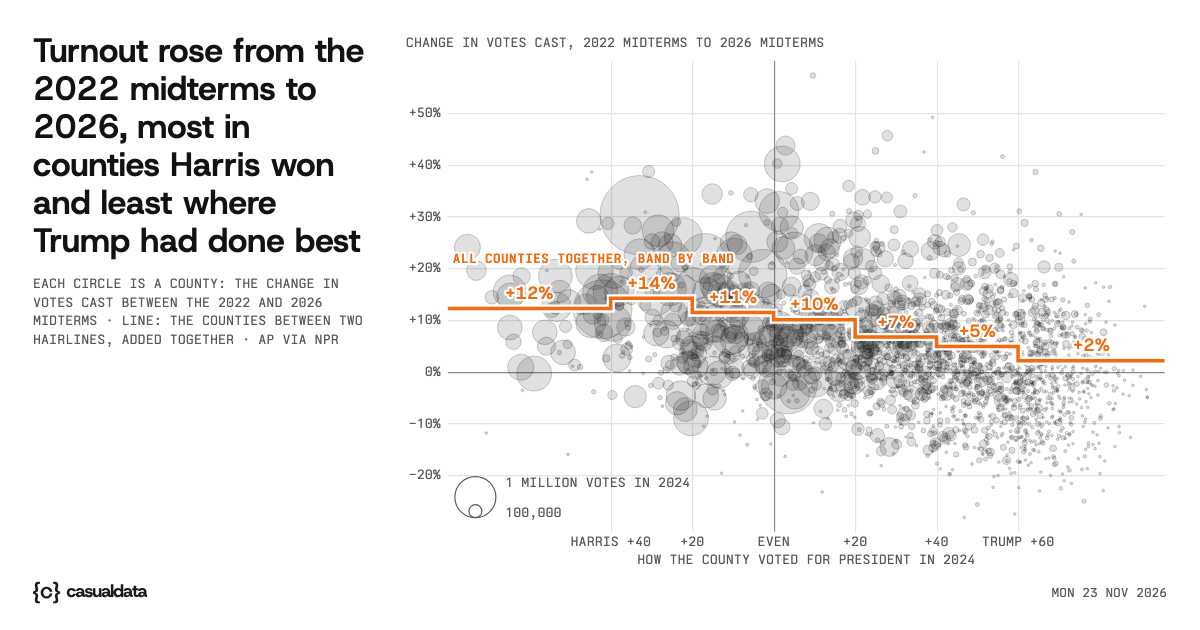
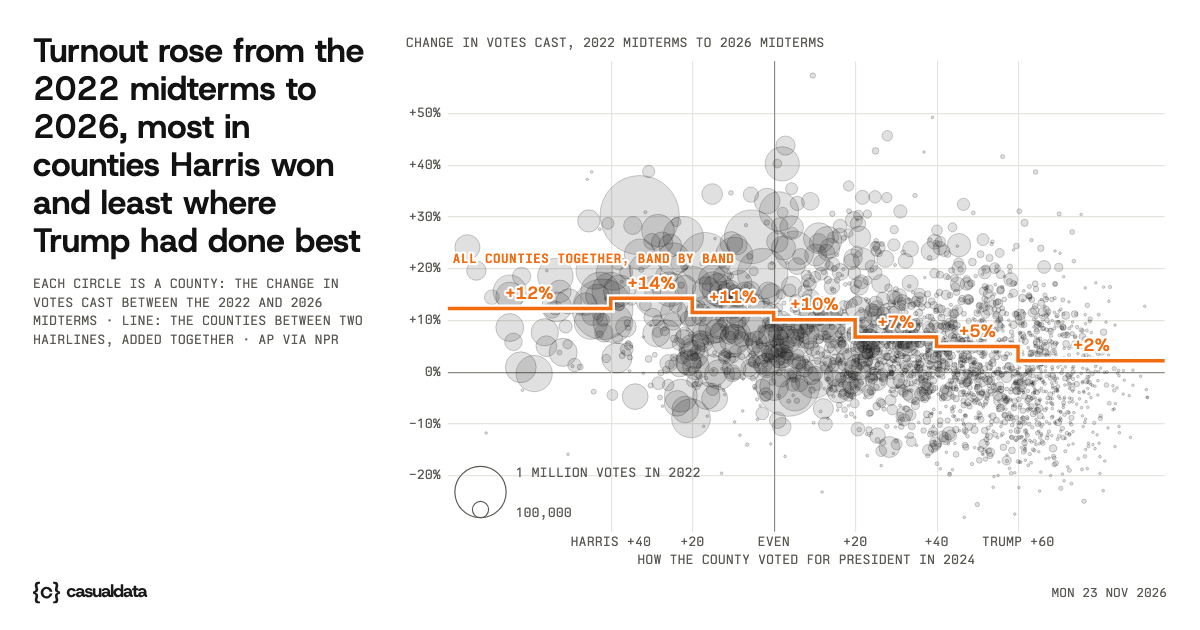
23 Nov: size the circles by each county's 2022 midterm vote, not its 2024 vote
The chart compares the 2022 and 2026 midterms, so sizing by 2024 confused readers.
The legend and dek now say the size is the 2022 vote; images and SEO stamps redone.

diff --git a/2026-11-23/index.html b/2026-11-23/index.html
@@ -13,7 +13,7 @@
   <meta property="og:image" content="https://casualdata.com/2026-11-23/card.png">
   <meta property="og:image:width" content="1200">
   <meta property="og:image:height" content="630">
-  <meta property="og:image:alt" content="A scatter of 2,361 circles, one per county, sized by its 2024 vote. Across: the county’s 2024 result. Up: the change in votes cast between the 2022 and 2026 midterms. An orange stepped line runs from plus 12%, plus 14% and plus 11% in the three bands of counties Harris won down to plus 2% in counties Trump won by 60 points or more.">
+  <meta property="og:image:alt" content="A scatter of 2,361 circles, one per county, sized by its 2022 midterm vote. Across: the county’s 2024 result. Up: the change in votes cast between the 2022 and 2026 midterms. An orange stepped line runs from plus 12%, plus 14% and plus 11% in the three bands of counties Harris won down to plus 2% in counties Trump won by 60 points or more.">
   <meta name="twitter:card" content="summary_large_image">
   <link rel="icon" href="/kit/favicon.svg?v=a2177b6d" type="image/svg+xml">
   <link rel="preload" href="/fonts/host-grotesk-latin.woff2" as="font" type="font/woff2" crossorigin>
@@ -30,9 +30,9 @@
   <meta name="twitter:title" content="Turnout rose from the 2022 midterms to 2026, most in counties Harris won and least where Trump had done best">
   <meta name="twitter:description" content="Each of 2,361 counties in 36 states is a circle: how it voted for president in 2024, and the change in the votes it cast between the 2022 and 2026 midterms. Counties Harris won cast 13% more votes than in 2022; counties Trump won by 60 points or more cast 2% more.">
   <meta name="twitter:image" content="https://casualdata.com/2026-11-23/card.png">
-  <meta name="twitter:image:alt" content="A scatter of 2,361 circles, one per county, sized by its 2024 vote. Across: the county’s 2024 result. Up: the change in votes cast between the 2022 and 2026 midterms. An orange stepped line runs from plus 12%, plus 14% and plus 11% in the three bands of counties Harris won down to plus 2% in counties Trump won by 60 points or more.">
+  <meta name="twitter:image:alt" content="A scatter of 2,361 circles, one per county, sized by its 2022 midterm vote. Across: the county’s 2024 result. Up: the change in votes cast between the 2022 and 2026 midterms. An orange stepped line runs from plus 12%, plus 14% and plus 11% in the three bands of counties Harris won down to plus 2% in counties Trump won by 60 points or more.">
   <script type="application/ld+json">
-{"@context":"https://schema.org","@graph":[{"@type":"Organization","@id":"https://casualdata.com/#org","name":"casualdata","alternateName":"{casualdata}","url":"https://casualdata.com/","logo":{"@type":"ImageObject","url":"https://casualdata.com/img/og/logo.png","width":512,"height":512},"foundingDate":"2005","description":"casualdata publishes one new interactive data visualization every day: a chart, map or picture of the day's news and data, each on its own dated page with its sources. It also keeps casualdata's data visualization art projects from 2007 to 2011.","founder":{"@type":"Person","@id":"https://mahiryavuz.com/#person","name":"Mahir Yavuz","url":"https://mahiryavuz.com/"},"knowsAbout":["data visualization","information design","data journalism","generative art"]},{"@type":"WebSite","@id":"https://casualdata.com/#website","url":"https://casualdata.com/","name":"casualdata","description":"casualdata publishes one new interactive data visualization every day: a chart, map or picture of the day's news and data, each on its own dated page with its sources. It also keeps casualdata's data visualization art projects from 2007 to 2011.","inLanguage":"en","publisher":{"@id":"https://casualdata.com/#org"}},{"@type":"Article","@id":"https://casualdata.com/2026-11-23/#article","url":"https://casualdata.com/2026-11-23/","mainEntityOfPage":"https://casualdata.com/2026-11-23/","headline":"Turnout rose from the 2022 midterms to 2026, most in counties Harris won and least where Trump had done best","alternativeHeadline":"Each circle is a county: how it voted for president in 2024, and the change in votes cast from the 2022 midterms to 2026. The line adds counties up.","description":"Each of 2,361 counties in 36 states is a circle: how it voted for president in 2024, and the change in the votes it cast between the 2022 and 2026 midterms. Counties Harris won cast 13% more votes than in 2022; counties Trump won by 60 points or more cast 2% more.","datePublished":"2026-11-23T07:00:00Z","dateModified":"2026-11-23T07:00:00Z","image":{"@type":"ImageObject","url":"https://casualdata.com/2026-11-23/card.png","width":1200,"height":630,"caption":"A scatter of 2,361 circles, one per county, sized by its 2024 vote. Across: the county’s 2024 result. Up: the change in votes cast between the 2022 and 2026 midterms. An orange stepped line runs from plus 12%, plus 14% and plus 11% in the three bands of counties Harris won down to plus 2% in counties Trump won by 60 points or more."},"author":{"@id":"https://casualdata.com/#org"},"publisher":{"@id":"https://casualdata.com/#org"},"isPartOf":{"@id":"https://casualdata.com/#website"},"inLanguage":"en","genre":"data visualization","isAccessibleForFree":true,"keywords":["data visualization","interactive chart","casualdata daily"],"about":{"@id":"https://casualdata.com/2026-11-23/#data"}},{"@type":"Dataset","@id":"https://casualdata.com/2026-11-23/#data","url":"https://casualdata.com/2026-11-23/","name":"Turnout rose from the 2022 midterms to 2026, most in counties Harris won and least where Trump had done best (data, 23 November 2026)","description":"The data behind the casualdata visualization of 23 November 2026: Each of 2,361 counties in 36 states is a circle: how it voted for president in 2024, and the change in the votes it cast between the 2022 and 2026 midterms. Counties Harris won cast 13% more votes than in 2022; counties Trump won by 60 points or more cast 2% more. Source: AP county results via NPR (2022, and 2026 as counted to 22 Nov 2026); 2024 presidential results by county compiled by Tony McGovern.","creator":{"@id":"https://casualdata.com/#org"},"datePublished":"2026-11-23","isAccessibleForFree":true,"distribution":{"@type":"DataDownload","encodingFormat":"text/javascript","contentUrl":"https://casualdata.com/2026-11-23/data.js"},"isBasedOn":["https://apps.npr.org/2026-election-results/data/counties/","https://apps.npr.org/2026-election-results/data/states/","https://apps.npr.org/election-results-live-2022/data/counties/","https://raw.githubusercontent.com/tonmcg/US_County_Level_Election_Results_08-24/master/2024_US_County_Level_Presidential_Results.csv"],"citation":"AP county results via NPR (2022, and 2026 as counted to 22 Nov 2026); 2024 presidential results by county compiled by Tony McGovern"},{"@type":"BreadcrumbList","itemListElement":[{"@type":"ListItem","position":1,"name":"casualdata","item":"https://casualdata.com/"},{"@type":"ListItem","position":2,"name":"23 November 2026: Turnout rose from the 2022 midterms to 2026, most in counties Harris won and least where Trump had done best","item":"https://casualdata.com/2026-11-23/"}]}]}
+{"@context":"https://schema.org","@graph":[{"@type":"Organization","@id":"https://casualdata.com/#org","name":"casualdata","alternateName":"{casualdata}","url":"https://casualdata.com/","logo":{"@type":"ImageObject","url":"https://casualdata.com/img/og/logo.png","width":512,"height":512},"foundingDate":"2005","description":"casualdata publishes one new interactive data visualization every day: a chart, map or picture of the day's news and data, each on its own dated page with its sources. It also keeps casualdata's data visualization art projects from 2007 to 2011.","founder":{"@type":"Person","@id":"https://mahiryavuz.com/#person","name":"Mahir Yavuz","url":"https://mahiryavuz.com/"},"knowsAbout":["data visualization","information design","data journalism","generative art"]},{"@type":"WebSite","@id":"https://casualdata.com/#website","url":"https://casualdata.com/","name":"casualdata","description":"casualdata publishes one new interactive data visualization every day: a chart, map or picture of the day's news and data, each on its own dated page with its sources. It also keeps casualdata's data visualization art projects from 2007 to 2011.","inLanguage":"en","publisher":{"@id":"https://casualdata.com/#org"}},{"@type":"Article","@id":"https://casualdata.com/2026-11-23/#article","url":"https://casualdata.com/2026-11-23/","mainEntityOfPage":"https://casualdata.com/2026-11-23/","headline":"Turnout rose from the 2022 midterms to 2026, most in counties Harris won and least where Trump had done best","alternativeHeadline":"Each circle is a county, sized by its 2022 vote: how it voted for president in 2024, and the change in votes cast from the 2022 midterms to 2026. The line adds counties up.","description":"Each of 2,361 counties in 36 states is a circle: how it voted for president in 2024, and the change in the votes it cast between the 2022 and 2026 midterms. Counties Harris won cast 13% more votes than in 2022; counties Trump won by 60 points or more cast 2% more.","datePublished":"2026-11-23T07:00:00Z","dateModified":"2026-11-23T07:00:00Z","image":{"@type":"ImageObject","url":"https://casualdata.com/2026-11-23/card.png","width":1200,"height":630,"caption":"A scatter of 2,361 circles, one per county, sized by its 2022 midterm vote. Across: the county’s 2024 result. Up: the change in votes cast between the 2022 and 2026 midterms. An orange stepped line runs from plus 12%, plus 14% and plus 11% in the three bands of counties Harris won down to plus 2% in counties Trump won by 60 points or more."},"author":{"@id":"https://casualdata.com/#org"},"publisher":{"@id":"https://casualdata.com/#org"},"isPartOf":{"@id":"https://casualdata.com/#website"},"inLanguage":"en","genre":"data visualization","isAccessibleForFree":true,"keywords":["data visualization","interactive chart","casualdata daily"],"about":{"@id":"https://casualdata.com/2026-11-23/#data"}},{"@type":"Dataset","@id":"https://casualdata.com/2026-11-23/#data","url":"https://casualdata.com/2026-11-23/","name":"Turnout rose from the 2022 midterms to 2026, most in counties Harris won and least where Trump had done best (data, 23 November 2026)","description":"The data behind the casualdata visualization of 23 November 2026: Each of 2,361 counties in 36 states is a circle: how it voted for president in 2024, and the change in the votes it cast between the 2022 and 2026 midterms. Counties Harris won cast 13% more votes than in 2022; counties Trump won by 60 points or more cast 2% more. Source: AP county results via NPR (2022, and 2026 as counted to 22 Nov 2026); 2024 presidential results by county compiled by Tony McGovern.","creator":{"@id":"https://casualdata.com/#org"},"datePublished":"2026-11-23","isAccessibleForFree":true,"distribution":{"@type":"DataDownload","encodingFormat":"text/javascript","contentUrl":"https://casualdata.com/2026-11-23/data.js"},"isBasedOn":["https://apps.npr.org/2026-election-results/data/counties/","https://apps.npr.org/2026-election-results/data/states/","https://apps.npr.org/election-results-live-2022/data/counties/","https://raw.githubusercontent.com/tonmcg/US_County_Level_Election_Results_08-24/master/2024_US_County_Level_Presidential_Results.csv"],"citation":"AP county results via NPR (2022, and 2026 as counted to 22 Nov 2026); 2024 presidential results by county compiled by Tony McGovern"},{"@type":"BreadcrumbList","itemListElement":[{"@type":"ListItem","position":1,"name":"casualdata","item":"https://casualdata.com/"},{"@type":"ListItem","position":2,"name":"23 November 2026: Turnout rose from the 2022 midterms to 2026, most in counties Harris won and least where Trump had done best","item":"https://casualdata.com/2026-11-23/"}]}]}
 </script>
   <link rel="prev" href="https://casualdata.com/2026-11-22/">
   <!-- /seo -->
@@ -51,7 +51,7 @@
 <section class="cd-head">
   <div class="cd-text">
   <h1 class="cd-title">Turnout rose from the 2022 midterms to 2026, most in counties Harris won and least where Trump had done best</h1>
-  <p class="cd-dek">Each circle is a county: how it voted for president in 2024, and the change in votes cast from the 2022 midterms to 2026. The line adds counties up.</p>
+  <p class="cd-dek">Each circle is a county, sized by its 2022 vote: how it voted for president in 2024, and the change in votes cast from the 2022 midterms to 2026. The line adds counties up.</p>
   </div>
   <p class="visually-hidden" id="cd-live" aria-live="polite"></p>
 </section>
@@ -67,6 +67,6 @@
 <script src="/kit/days.js"></script>
 <script src="/kit/cd.js?v=b7baf587"></script>
 <script src="data.js?v=065a2e2f"></script>
-<script src="viz.js?v=8d47e509"></script>
+<script src="viz.js?v=de35e604"></script>
 </body>
 </html>

diff --git a/2026-11-23/viz.js b/2026-11-23/viz.js
@@ -1,7 +1,7 @@
 // 2026-11-23 — one circle for each of 2,361 counties in the 36 states that had a Senate or governor's
 // race in both 2022 and 2026: across, how the county voted for president in 2024 (Harris to the left,
 // Trump to the right); up, the change in the votes it cast from the 2022 midterms to the 2026
-// midterms; its size, the votes it cast for president in 2024. Hairlines cut the plot into seven
+// midterms; its size, the votes it cast in the 2022 midterms. Hairlines cut the plot into seven
 // bands by the 2024 margin, and a stepped line gives each band's counties added together. That line
 // is the one accent idea: orange on the white page, the kit's green on the black one (a chart about
 // parties never uses red; the owner chose orange for this day, where green sank into the grey
@@ -9,10 +9,10 @@
 // the states are listed under the title and can be picked there.
 (function () {
 	const C = CD.colors, D = window.COUNTIES;
-	// b0 = the votes cast in the 2022 midterms, t = in 2026; v0 = the 2024 presidential votes, the circle's size
+	// b0 = the votes cast in the 2022 midterms, the circle's size; t = in 2026; v0 = the 2024 presidential votes
 	const rows = D.rows.map(r => ({ fips: r[0], name: r[1], st: r[2], m: r[3], v0: r[4], b0: r[5], t: r[6], open: !!r[7], p: r[6] / r[5] * 100 }));
-	const N = rows.length, VMAX = Math.max(...rows.map(r => r.v0));
-	const big = rows.map((_, i) => i).sort((a, b) => rows[b].v0 - rows[a].v0);       // drawn largest first, so small circles stay on top
+	const N = rows.length, VMAX = Math.max(...rows.map(r => r.b0));
+	const big = rows.map((_, i) => i).sort((a, b) => rows[b].b0 - rows[a].b0);       // drawn largest first, so small circles stay on top
 	const firsts = []; rows.forEach((r, i) => { if (!i || rows[i - 1].st !== r.st) firsts.push(i); });       // each state's largest county; the rows come by state, A to Z, largest first
 	const ranked = Object.keys(D.states).sort((a, b) => D.states[b] - D.states[a]);
 	const X0 = -80, X1 = 96, EDGES = [-40, -20, 0, 20, 40, 60];
@@ -133,7 +133,7 @@
 		const pos = new Float32Array(N * 3);
 		ctx.fillStyle = C.ink; ctx.strokeStyle = C.ink; ctx.lineWidth = 0.6 * s;
 		for (const i of big) {
-			const r = rows[i], cx = px(r.m), cy = py(r.p), rr = rad(r.v0) * arrived((r.m - X0) / (X1 - X0));
+			const r = rows[i], cx = px(r.m), cy = py(r.p), rr = rad(r.b0) * arrived((r.m - X0) / (X1 - X0));
 			pos[i * 3] = cx; pos[i * 3 + 1] = cy; pos[i * 3 + 2] = rr;
 			if (rr <= 0) continue;
 			const mine = cur && r.st === cur;
@@ -173,7 +173,7 @@
 		ctx.strokeStyle = C.ink2; ctx.lineWidth = px1; ctx.globalAlpha = la;
 		for (const kr of [k1, k2]) { ctx.beginPath(); ctx.arc(kx, kb - kr, kr, 0, 6.2832); ctx.stroke(); }
 		ctx.font = mono; ctx.fillStyle = C.ink2;
-		ctx.fillText(PW >= 300 * s ? "1 MILLION VOTES IN 2024" : "1 MILLION VOTES", kx + k1 + 8 * s, kb - 1 * s - Math.max(15 * s, k1 * 2 - 10 * s));
+		ctx.fillText(PW >= 300 * s ? "1 MILLION VOTES IN 2022" : "1 MILLION VOTES", kx + k1 + 8 * s, kb - 1 * s - Math.max(15 * s, k1 * 2 - 10 * s));
 		ctx.fillText("100,000", kx + k1 + 8 * s, kb - 1 * s);
 		ctx.globalAlpha = 1;
 

diff --git a/index.html b/index.html
@@ -48,7 +48,7 @@
       <picture><source media="(min-width: 601px)" srcset="/2026-11-23/lead.webp" width="1440" height="960"><img srcset="/2026-11-23/thumb.webp 720w, /2026-11-23/thumb-1200.webp 1200w" sizes="100vw" src="/2026-11-23/thumb.webp" width="1200" height="800" alt="" loading="lazy"></picture>
       <span class="cd-meta"><i class="dot" aria-hidden="true"></i>Latest · <time datetime="2026-11-23">Mon 23 Nov 2026</time></span>
       <span class="t">Turnout rose from the 2022 midterms to 2026, most in counties Harris won and least where Trump had done best</span>
-      <span class="dek">Each circle is a county: how it voted for president in 2024, and the change in votes cast from the 2022 midterms to 2026. The line adds counties up.</span>
+      <span class="dek">Each circle is a county, sized by its 2022 vote: how it voted for president in 2024, and the change in votes cast from the 2022 midterms to 2026. The line adds counties up.</span>
     </a></li>
     <li class="tile"><a href="/2026-11-22/">
       <picture><img srcset="/2026-11-22/thumb.webp 720w, /2026-11-22/thumb-1200.webp 1200w" sizes="(max-width: 600px) 100vw, (max-width: 960px) 50vw, (max-width: 1599px) 33vw, 25vw" src="/2026-11-22/thumb.webp" width="1200" height="800" alt="" loading="lazy"></picture>
@@ -158,7 +158,7 @@
   <p class="cd-meta">Made by <a href="https://mahiryavuz.com/" rel="author">Mahir Yavuz</a></p>
 </footer>
 
-<script src="/kit/days.js?v=ebe1e502"></script>
+<script src="/kit/days.js?v=d7b73eae"></script>
 <script src="/kit/cd.js?v=b7baf587"></script>
 <script>
   // Newest first. The newest day takes a full row with its intro; the rest follow as an even grid of tiles.

diff --git a/kit/days.js b/kit/days.js
@@ -147,7 +147,7 @@ window.CD_DAYS = [
 		date: "2026-11-23",
 		path: "/2026-11-23/",
 		title: "Turnout rose from the 2022 midterms to 2026, most in counties Harris won and least where Trump had done best",
-		dek: "Each circle is a county: how it voted for president in 2024, and the change in votes cast from the 2022 midterms to 2026. The line adds counties up.",
+		dek: "Each circle is a county, sized by its 2022 vote: how it voted for president in 2024, and the change in votes cast from the 2022 midterms to 2026. The line adds counties up.",
 		tags: ["midterms", "voterturnout", "election2026", "counties"]
 	}
 ];
